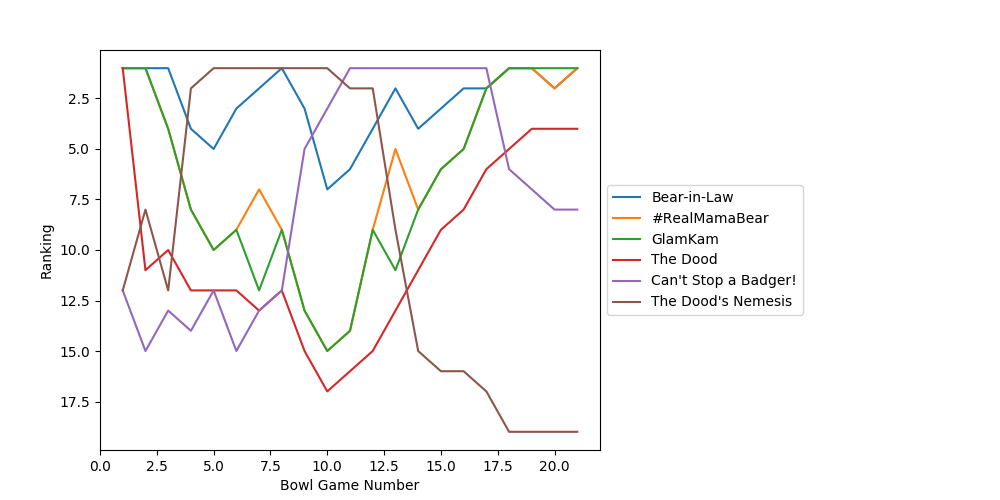
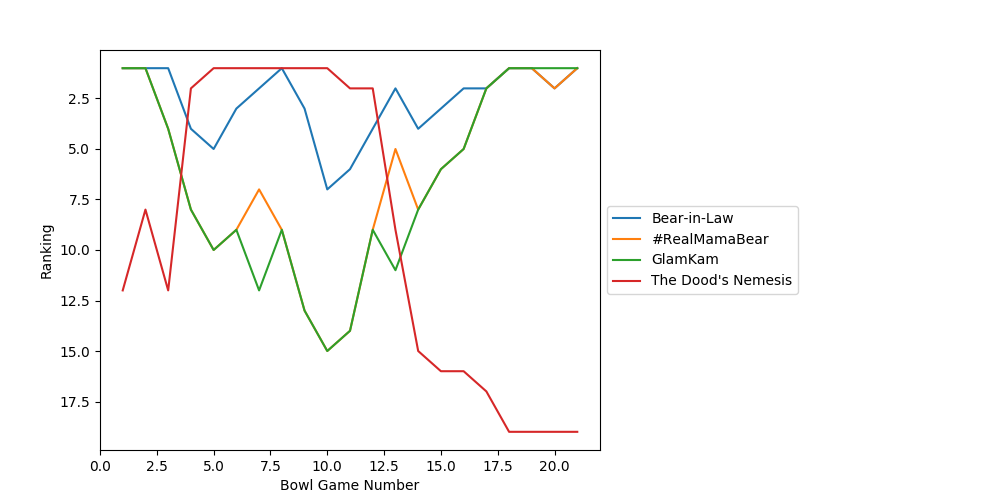
2021-2022 Highlight winners

diff --git a/bowl_pool/2021-2022/rankings.html b/bowl_pool/2021-2022/rankings.html
@@ -364,7 +364,7 @@ ul.auto-toc {
 
 
 <div class="line-block">
-<div class="line"><em>Last updated:  2022-01-11 16:04:59</em></div>
+<div class="line"><em>Last updated:  2022-01-11 16:10:23</em></div>
 <div class="line"><em>Last bowl scored:  TEXAS BOWL (Kansas State vs. LSU)</em></div>
 </div>
 <div class="line-block">
@@ -372,10 +372,10 @@ ul.auto-toc {
 <div class="line">1. <strong>Bear-in-Law 25.25</strong></div>
 <div class="line">1. <strong>GlamKam 25.25</strong></div>
 <div class="line">4. Panda 24.0</div>
-<div class="line">4. <strong>The Dood 24.0</strong></div>
+<div class="line">4. The Dood 24.0</div>
 <div class="line">6. Gigi 23.25</div>
 <div class="line">7. Blue Orred 23.0</div>
-<div class="line">8. <strong>Can't Stop a Badger! 21.5</strong></div>
+<div class="line">8. Can't Stop a Badger! 21.5</div>
 <div class="line">9. Bopper 21.0</div>
 <div class="line">10. Sweet Lou 20.5</div>
 <div class="line">11. Knights of Ren 20.0</div>

diff --git a/bowl_pool/2021-2022/index.html b/bowl_pool/2021-2022/index.html
@@ -365,7 +365,7 @@ ul.auto-toc {
 
 <p><strong>2021-2022 Bowl Pool</strong></p>
 <div class="line-block">
-<div class="line"><em>Last updated:  2022-01-11 16:04:59</em></div>
+<div class="line"><em>Last updated:  2022-01-11 16:10:23</em></div>
 <div class="line"><em>Last bowl scored:  TEXAS BOWL (Kansas State vs. LSU)</em></div>
 </div>
 <ul class="simple">
